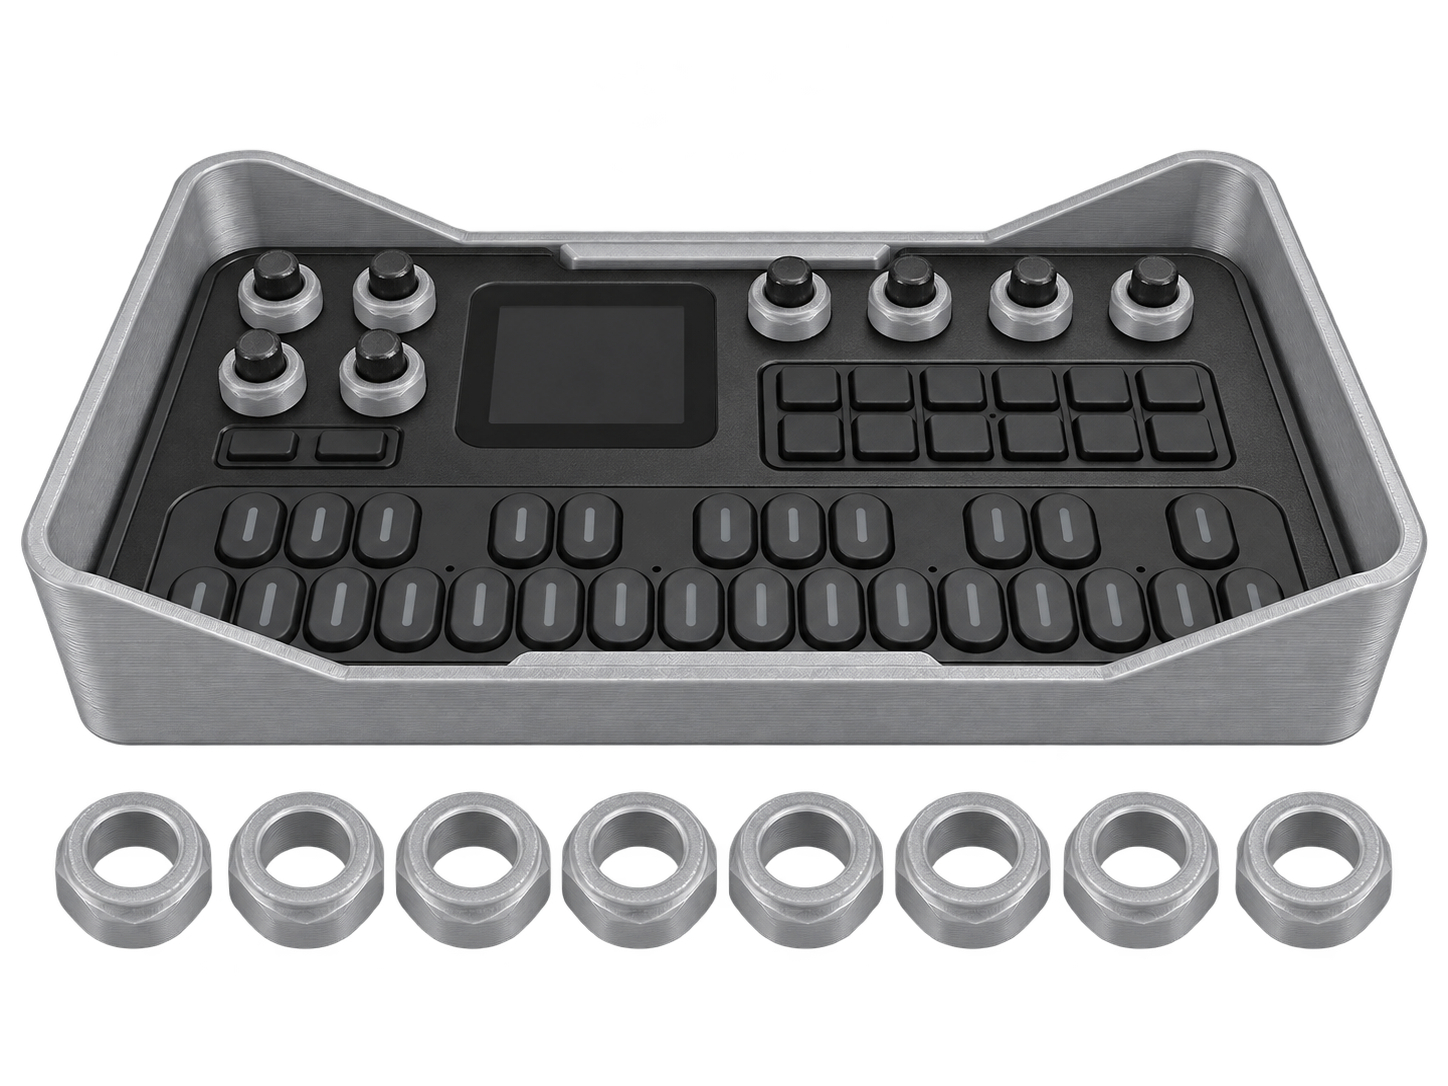
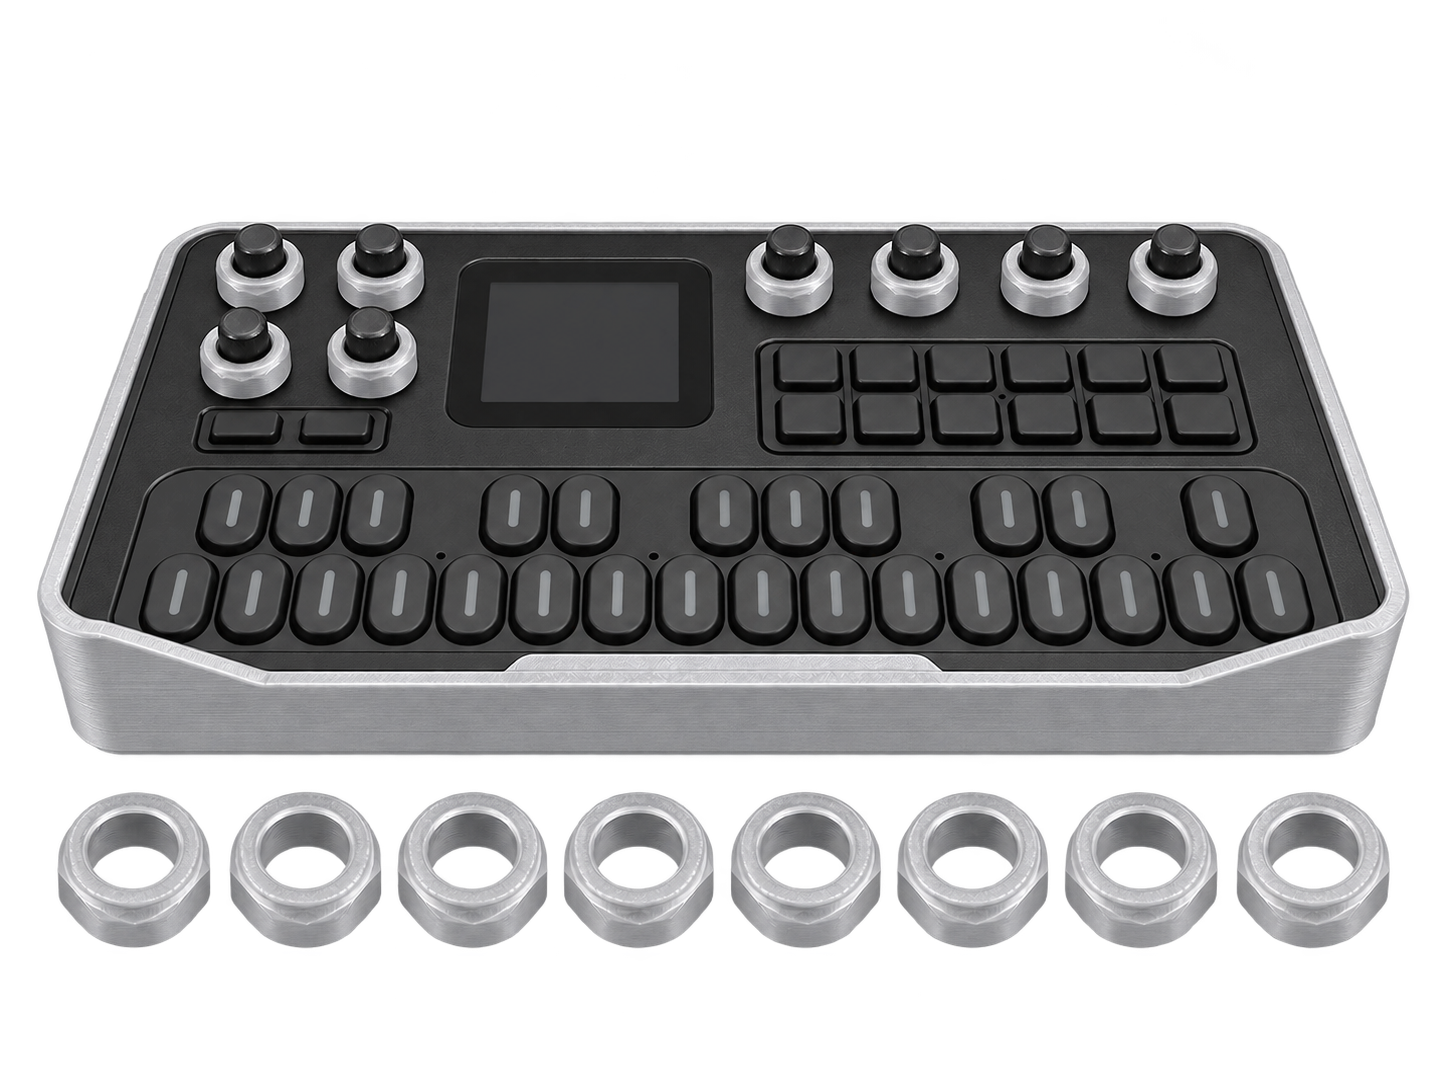
Correct accessory illustrations to show flush device fit

Changed region(s): [[0.0, 0.1215, 0.9945, 0.6989], [0.0311, 0.7293, 0.9634, 0.8812], [0.0622, 0.7293, 0.1243, 0.7597]]

diff --git a/web/accessories/README.md b/web/accessories/README.md
@@ -18,6 +18,9 @@ the owner's listing screenshot (black, white, red, blue, glow, silver).
 White and silver show a black FM-1 inside, using IMG_3148.JPEG as the fitted-device
 reference; the other views show the empty case. Exact variant prompts are in
 `color-prompts.json`. The first purple-device draft was discarded.
+The white and silver illustrations were corrected against IMG_3145.JPEG so the
+device top sits flush with the tray rim, with no deep recess or hidden keys.
+Their final edit prompts are recorded in `fit-correction-prompts.json`.
 
 `rotate.js` crossfades every four seconds while the card is in view. It loads
 the next image before transitioning, preserves the current image on load failure,
